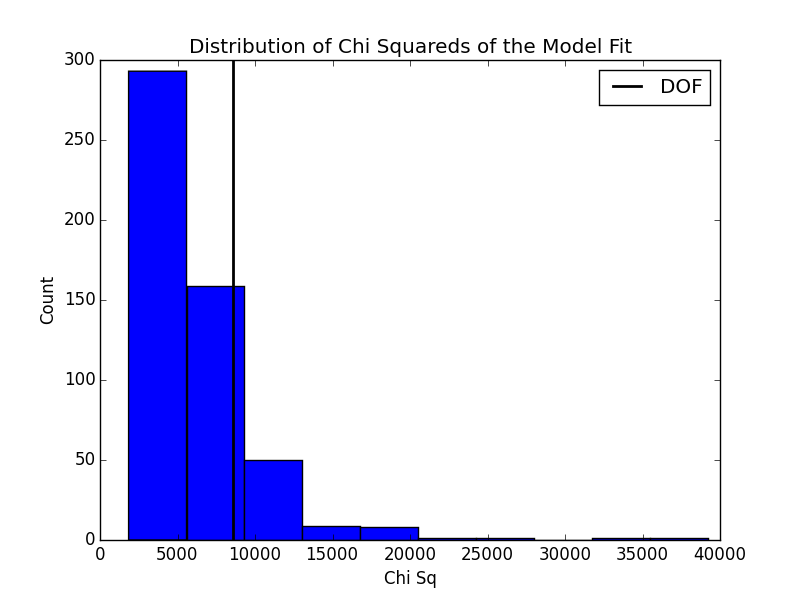
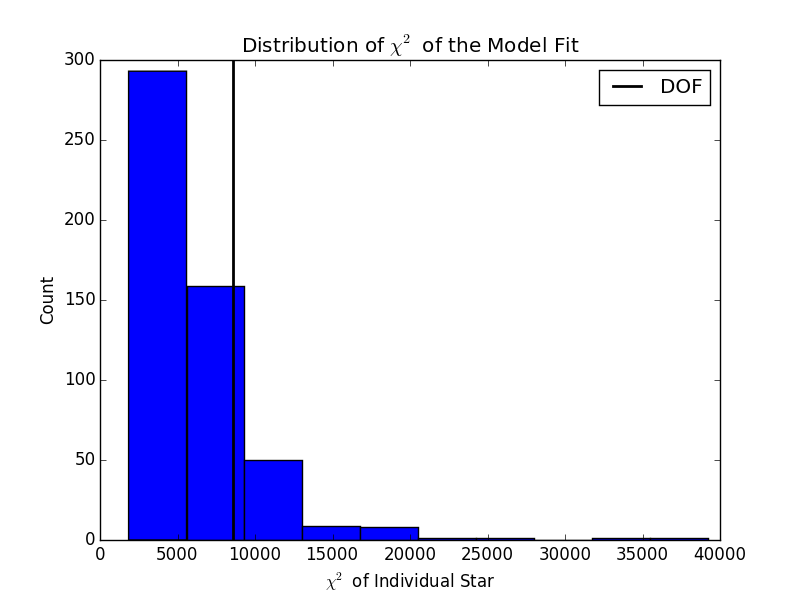
dof & chisq calc corrected

Changed region(s): [[0.2188, 0.06, 0.7812, 0.09], [0.4062, 0.93, 0.625, 0.99]]

diff --git a/Code/Version1.2/cannon1_train_model.py b/Code/Version1.2/cannon1_train_model.py
@@ -11,43 +11,43 @@ import matplotlib.pyplot as plt
 from matplotlib import rc
 import os
 
-def do_one_regression_at_fixed_scatter(lams, fluxes, ivars, x, scatter):
+def do_one_regression_at_fixed_scatter(lams, fluxes, ivars, lvec, scatter):
     """
     Params
     ------
     lams: ndarray, [npixels]
     spectra: ndarray, [nstars, 3]
-    x=coefficients of the model: ndarray, [nstars, nlabels]
+    lvec=label vector: ndarray, [nstars, 10]
     scatter: ndarray, [nstars]
 
     Returns
     ------
     coeff: ndarray
         coefficients of the fit
-    xTCinvx: ndarray
+    lTCinvl: ndarray
         inverse covariance matrix for fit coefficients
     chi: float
         chi-squared at best fit
     logdet_Cinv: float
         inverse of the log determinant of the cov matrix
     """
-    err2 = 100**2*np.ones(len(ivars))
+    sig2 = 100**2*np.ones(len(ivars))
     mask = ivars != 0
-    err2[mask] = 1. / ivars[mask]
-    Cinv = 1. / (err2 + scatter**2)
-    xTCinvx = np.dot(x.T, Cinv[:, None] * x) 
-    xTCinvf = np.dot(x.T, Cinv * fluxes)
+    sig2[mask] = 1. / ivars[mask]
+    Cinv = 1. / (sig2 + scatter**2)
+    lTCinvl = np.dot(lvec.T, Cinv[:, None] * lvec) 
+    lTCinvf = np.dot(lvec.T, Cinv * fluxes)
     try:
-        coeff = np.linalg.solve(xTCinvx, xTCinvf) # this is the model!
+        coeff = np.linalg.solve(lTCinvl, lTCinvf) 
     except np.linalg.linalg.LinAlgError:
         print "np.linalg.linalg.LinAlgError, do_one_regression_at_fixed_scatter"
-        print xTCinvx, xTCinvf, lams, fluxes
+        print lTCinvx, lTCinvf, lams, fluxes
     assert np.all(np.isfinite(coeff))
-    chi = np.sqrt(Cinv) * (fluxes - np.dot(x, coeff))
+    chi = np.sqrt(Cinv) * (fluxes - np.dot(lvec, coeff))
     logdet_Cinv = np.sum(np.log(Cinv))
-    return (coeff, xTCinvx, chi, logdet_Cinv)
+    return (coeff, lTCinvl, chi, logdet_Cinv)
 
-def do_one_regression(lams, fluxes, ivars, x):
+def do_one_regression(lams, fluxes, ivars, lvec):
     """
     Optimizes to find the scatter associated with the best-fit model.
 
@@ -58,30 +58,27 @@ def do_one_regression(lams, fluxes, ivars, x):
     -----
     lams: ndarray, [npixels]
     spectra: ndarray, [nstars, 2] 
-    x = coefficients of the model: ndarray, [nstars, nlabels]
+    x = the label vector, ndarray, [nstars, 10]
 
     Output
     -----
     output of do_one_regression_at_fixed_scatter
     """
-    # cover the full order of the scatter term, scatter << max term
     ln_scatter_vals = np.arange(np.log(0.0001), 0., 0.5) 
-    # will minimize over the range of scatter possibilities
+    # minimize over the range of scatter possibilities
     chis_eval = np.zeros_like(ln_scatter_vals)
     for jj, ln_scatter_val in enumerate(ln_scatter_vals):
-        coeff, xTCinvx, chi, logdet_Cinv = do_one_regression_at_fixed_scatter(
-                lams, fluxes, ivars, x, scatter = np.exp(ln_scatter_val))
-        chis_eval[jj] = np.sum(chi * chi) - logdet_Cinv
-    # What do the below two cases *mean*?
+        coeff, lTCinvl, chi, logdet_Cinv = do_one_regression_at_fixed_scatter(
+                lams, fluxes, ivars, lvec, scatter = np.exp(ln_scatter_val))
+        chis_eval[jj] = np.sum(chi*chi) - logdet_Cinv
     if np.any(np.isnan(chis_eval)):
         best_scatter = np.exp(ln_scatter_vals[-1]) 
-        return do_one_regression_at_fixed_scatter(
-                lams, fluxes, ivars, x, scatter = best_scatter) + (best_scatter, )
-    lowest = np.argmin(chis_eval) # the best-fit scatter value?
-    # If it was unsuccessful at finding it...
+        return do_one_regression_at_fixed_scatter(lams, fluxes, ivars, 
+                lvec, scatter = best_scatter) + (best_scatter, )
+    lowest = np.argmin(chis_eval) 
     if lowest == 0 or lowest == len(ln_scatter_vals) + 1: 
         best_scatter = np.exp(ln_scatter_vals[lowest])
-        return do_one_regression_at_fixed_scatter(lams, fluxes, ivars, x, 
+        return do_one_regression_at_fixed_scatter(lams, fluxes, ivars, lvec, 
                 scatter = best_scatter) + (best_scatter, )
     ln_scatter_vals_short = ln_scatter_vals[np.array(
         [lowest-1, lowest, lowest+1])]
@@ -92,7 +89,7 @@ def do_one_regression(lams, fluxes, ivars, x):
     fit_pder2 = pylab.polyder(fit_pder)
     best_scatter = np.exp(np.roots(fit_pder)[0])
     return do_one_regression_at_fixed_scatter(
-            lams, fluxes, ivars, x, scatter = best_scatter) + (best_scatter, )
+            lams, fluxes, ivars, lvec, scatter = best_scatter) + (best_scatter, )
 
 def train_model(reference_set):
     """
@@ -124,26 +121,22 @@ def train_model(reference_set):
     linear_offsets = label_vals - pivots
     quadratic_offsets = np.array([np.outer(m, m)[np.triu_indices(nlabels)] 
         for m in (label_vals - pivots)])
-    x = np.hstack((ones, linear_offsets, quadratic_offsets))
-    x_full = np.array([x,]*npixels) 
+    lvec = np.hstack((ones, linear_offsets, quadratic_offsets))
+    lvec_full = np.array([lvec,]*npixels) 
 
     # Perform REGRESSIONS
     fluxes = fluxes.swapaxes(0,1) # for consistency with x_full
     ivars = ivars.swapaxes(0,1)
-    blob = map(do_one_regression, lams, fluxes, ivars, x_full) #one per pix
+    blob = map(do_one_regression, lams, fluxes, ivars, lvec_full) #one per pix
     coeffs = np.array([b[0] for b in blob])
     covs = np.array([np.linalg.inv(b[1]) for b in blob])
     chis = np.array([b[2] for b in blob])
-    chisqs = np.array([np.dot(b[2],b[2]) - b[3] for b in blob])
-    # is the above actually supposed to be b[2]*b[2]? 
-    scatters = np.array([b[4] for b in blob]) # how could there be a b[4]?
-                        # there are only four outputs from do_one_regression_at_
-                        # fixed_scatter...confused
+    scatters = np.array([b[4] for b in blob]) 
     
     # Calc chi sq
     all_chisqs = chis*chis
-    chisqs = np.sum(all_chisqs, axis=0) # now we have one per star
-    model = coeffs, covs, scatters, chisqs, pivots, x_full
+    #chisqs = np.sum(all_chisqs, axis=0) # now we have one per star
+    model = coeffs, covs, scatters, all_chisqs, pivots, lvec_full
     print "Done training model"
     return model
 
@@ -218,17 +211,14 @@ def model_diagnostics(reference_set, model):
     fig.savefig(filename)
     plt.close(fig)
 
-    # Histogram of the reduced chi squareds of the fits
-    plt.hist(chisqs)
-    # Calculate the number of degrees of freedom...
-    # npixels*nstars - npixels*(ncoeffs-1 + 1 for scatter)
-    # dof = len(lams)*label_vector.shape[1] - len(lams)*coeffs_all.shape[1]
-    dof = len(lams)-coeffs_all.shape[1]
+    # Histogram of the chi squareds of ind. stars 
+    plt.hist(np.sum(chisqs, axis=0))
+    dof = len(lams) - coeffs_all.shape[1] # for one star
     plt.axvline(x=dof, c='k', linewidth=2, label="DOF")
     plt.legend()
-    plt.title("Distribution of Chi Squareds of the Model Fit")
+    plt.title("Distribution of "+ r"$\chi^2$" + " of the Model Fit")
     plt.ylabel("Count")
-    plt.xlabel("Chi Sq") 
+    plt.xlabel(r"$\chi^2$" + " of Individual Star") 
     filename = "modelfit_chisqs.png"
     print "Diagnostic plot: histogram of the red chi squareds of the fit"
     print "Saved as %s" %filename

diff --git a/Code/Version1.2/cannon2_infer_labels.py b/Code/Version1.2/cannon2_infer_labels.py
@@ -4,24 +4,24 @@
 from scipy import optimize as opt
 import numpy as np
 
-def get_x(labels):
+def get_lvec(labels):
     """
     Constructs a label vector for an arbitrary number of labels
     Assumes that our model is quadratic in the labels
     """
     nlabels = len(labels)
-    x = labels # linear terms 
+    lvec = labels # linear terms 
     # Quadratic terms: 
     for i in range(nlabels):
         for j in range(i, nlabels):
             element = labels[i]*labels[j]
-            x.append(element)
-    x = np.array(x)
+            lvec.append(element)
+    lvec = np.array(lvec)
     return x
 
 def func(coeffs, *labels):
-    x = get_x(list(labels))
-    return np.dot(coeffs, x)
+    lvec = get_lvec(list(labels))
+    return np.dot(coeffs, lvec)
 
 def infer_labels(model, test_set):
     """
@@ -39,7 +39,7 @@ def infer_labels(model, test_set):
     MCM_rotate_all:
     covs_all: covariance matrix of the fit
     """
-    coeffs_all, covs, scatters, red_chisqs, pivots, label_values = model
+    coeffs_all, covs, scatters, red_chisqs, pivots, label_vector = model
     nlabels = len(pivots)
     lambdas = test_set.lams
     fluxes = test_set.fluxes
